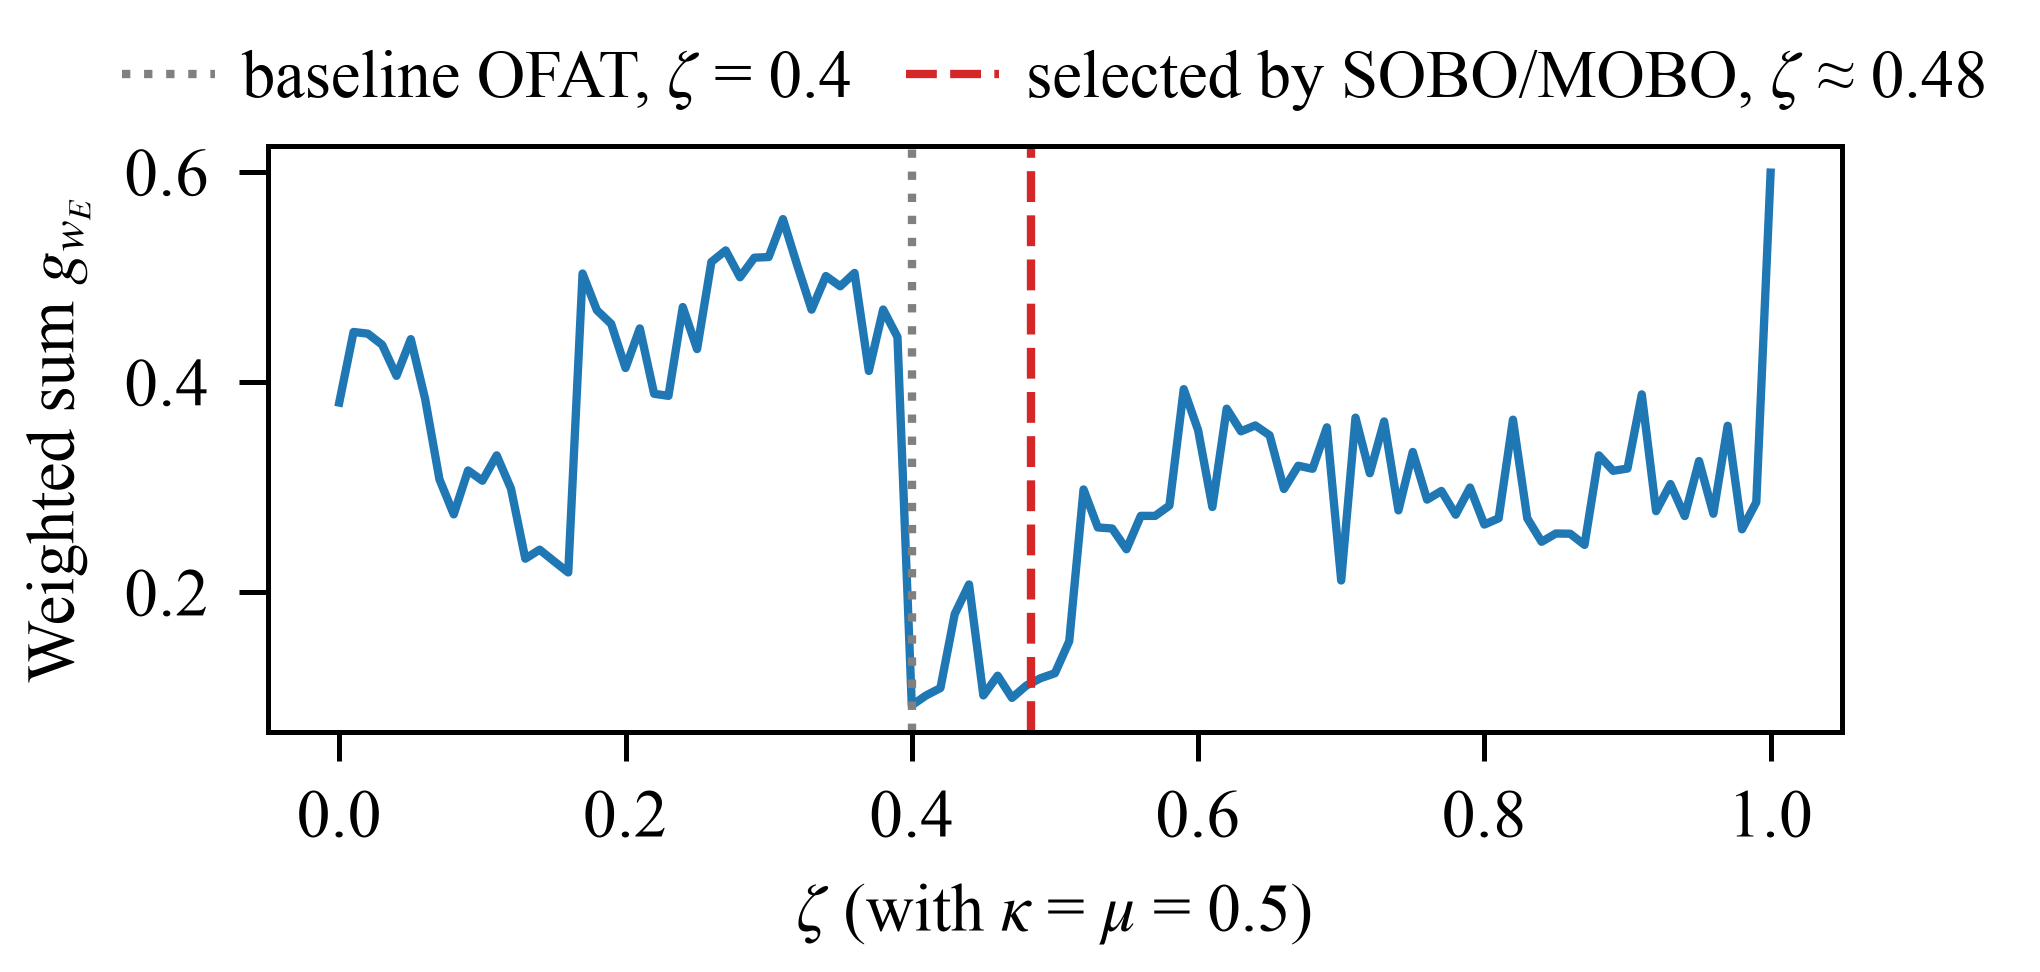
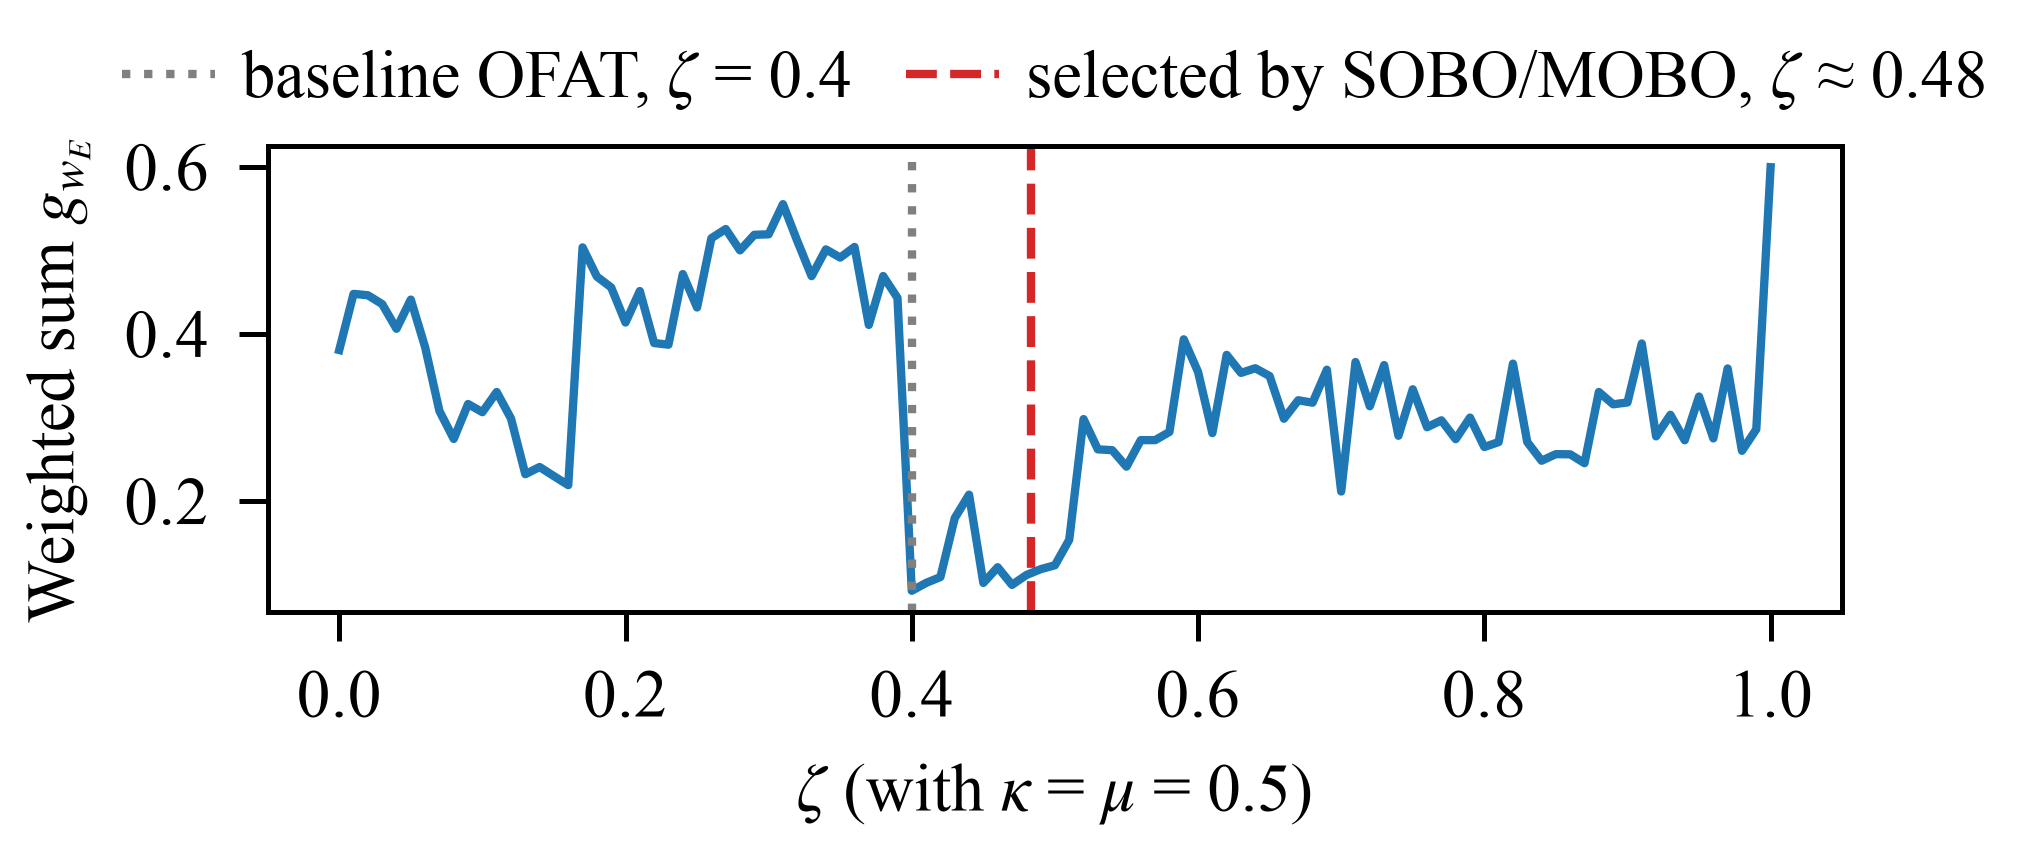
Match figure sizes and equation numbers to the revised manuscript
Figures 2 and 3 are drawn slightly shorter; the README maps the code to the
revised equation numbering (optimization problem (13)-(14), EI (15), EHVI (16),
hypervolume (17), weight-coverage gap (18)).

diff --git a/05_diagnostics.py b/05_diagnostics.py
@@ -80,7 +80,7 @@ def main():
                      "f1n": r.f_norm[0], "f2n": r.f_norm[1], "f3n": r.f_norm[2]})
     prof = pd.DataFrame(prof)
     prof.to_csv(out / "tables" / "diag_zeta_profile.csv", index=False)
-    fig, ax = plt.subplots(figsize=(3.4, 1.62))
+    fig, ax = plt.subplots(figsize=(3.4, 1.42))
     ax.plot(prof["zeta"], prof["g_E"])
     ax.axvline(0.4, color="grey", ls=":", lw=1, label="baseline OFAT, $\\zeta$ = 0.4")
     ax.axvline(zeta_star, color="C3", ls="--", lw=1, label=f"selected by SOBO/MOBO, $\\zeta$ ≈ {zeta_star:.2f}")

diff --git a/03_analyze.py b/03_analyze.py
@@ -92,7 +92,7 @@ def rq1(df, seeds, out):
     ])
     summary.to_csv(out / "tables" / "rq1_summary.csv", index=False)
 
-    fig, axes = plt.subplots(1, 2, figsize=(TEXT_WIDTH, 1.9))
+    fig, axes = plt.subplots(1, 2, figsize=(TEXT_WIDTH, 1.62))
     for ax, key, ylabel, tag in ((axes[0], "hv", "Hypervolume", "(a)"),
                                  (axes[1], "g", "Best weighted sum $g_{w_E}$", "(b)")):
         for run, label in (("SOBO_E", "SOBO"), ("MOBO", "MOBO")):

diff --git a/README.md b/README.md
@@ -46,10 +46,10 @@ data and takes about 10 minutes).
 |---|---|
 | Table 2 (all settings) | `config.py` |
 | II-B data, P-HFE score (1), Jaccard relations (2), PageRank | `src/data.py` |
-| II-C SCO-FCM Stages 1–5, (3)–(8) | `src/scofcm.py` (`SCOFCMPipeline`) |
-| II-D objectives f1–f3 and normalization, (9)–(12) | `src/scofcm.py` (`evaluate`, `normalize`) |
-| II-E SOBO (GP + EI) and MOBO (GP + EHVI) | `src/optimizers.py` |
-| II-F hypervolume (13), weight-coverage gap (14), A12, Holm | `src/metrics.py`, `03_analyze.py` |
+| II-C SCO-FCM pipeline (objective function), Stages 1–5, (3)–(8) | `src/scofcm.py` (`SCOFCMPipeline`) |
+| II-D objectives f1–f3 and normalization, (9)–(12); constraints (K1)–(K4) and the MOBO/SOBO problems (13)–(14) | `src/scofcm.py` (`evaluate`, `normalize`), `config.py` |
+| II-E SOBO (GP + EI, (15)) and MOBO (GP + EHVI, (16)); decisions x_SOBO and x_MOBO | `src/optimizers.py`, `src/metrics.py` (`compromise_index`) |
+| II-F hypervolume (17), weight-coverage gap (18), A12, Holm | `src/metrics.py`, `03_analyze.py` |
 | Figure style (Times New Roman 8 pt, printed size) | `src/plotstyle.py` |
 
 ## Data and results in this repository
@@ -82,7 +82,7 @@ ICML 2024, when using the data.
 3. **GP noise.** Phi is deterministic but jumps when c* or iteration counts change, so each GP
    estimates a homoskedastic noise term. If a fit still fails, a quasi-random point is evaluated
    (logged as `bo_fallback` and counted in the summary).
-4. **Nearest subgroup in the silhouette (7)** is the one whose centre is closest to the rater,
+4. **Nearest subgroup in the silhouette (7)** is the one whose center is closest to the rater,
    as in the baseline.
 5. **RQ2 correlations** are computed on the normalized objectives (all minimized), so a negative
    Spearman's rho means a genuine conflict.
